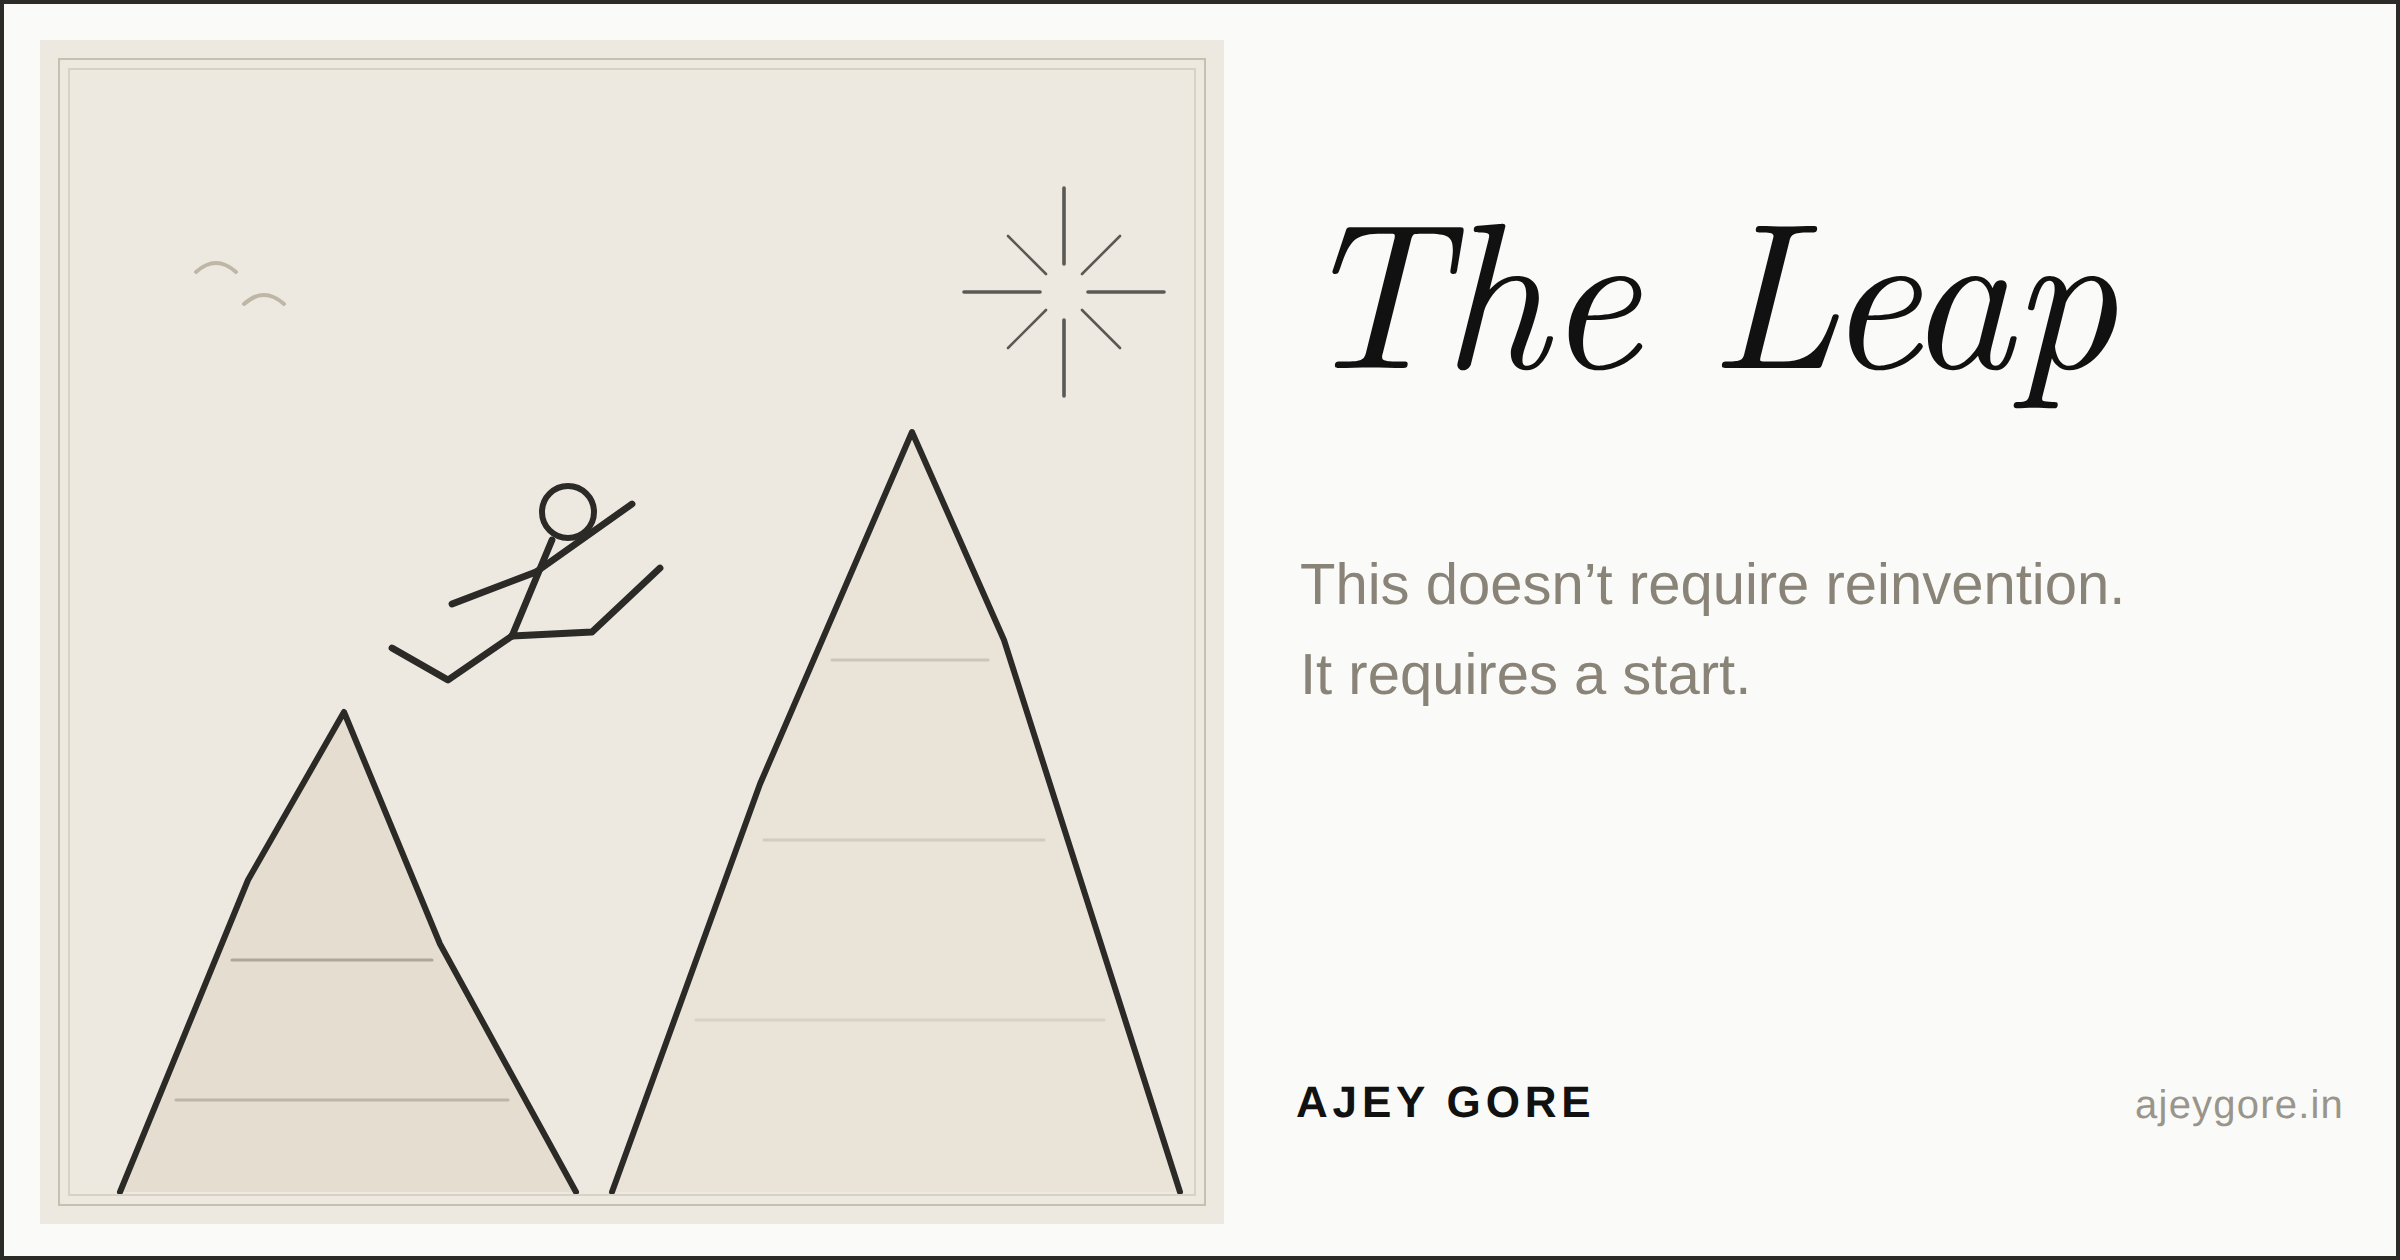
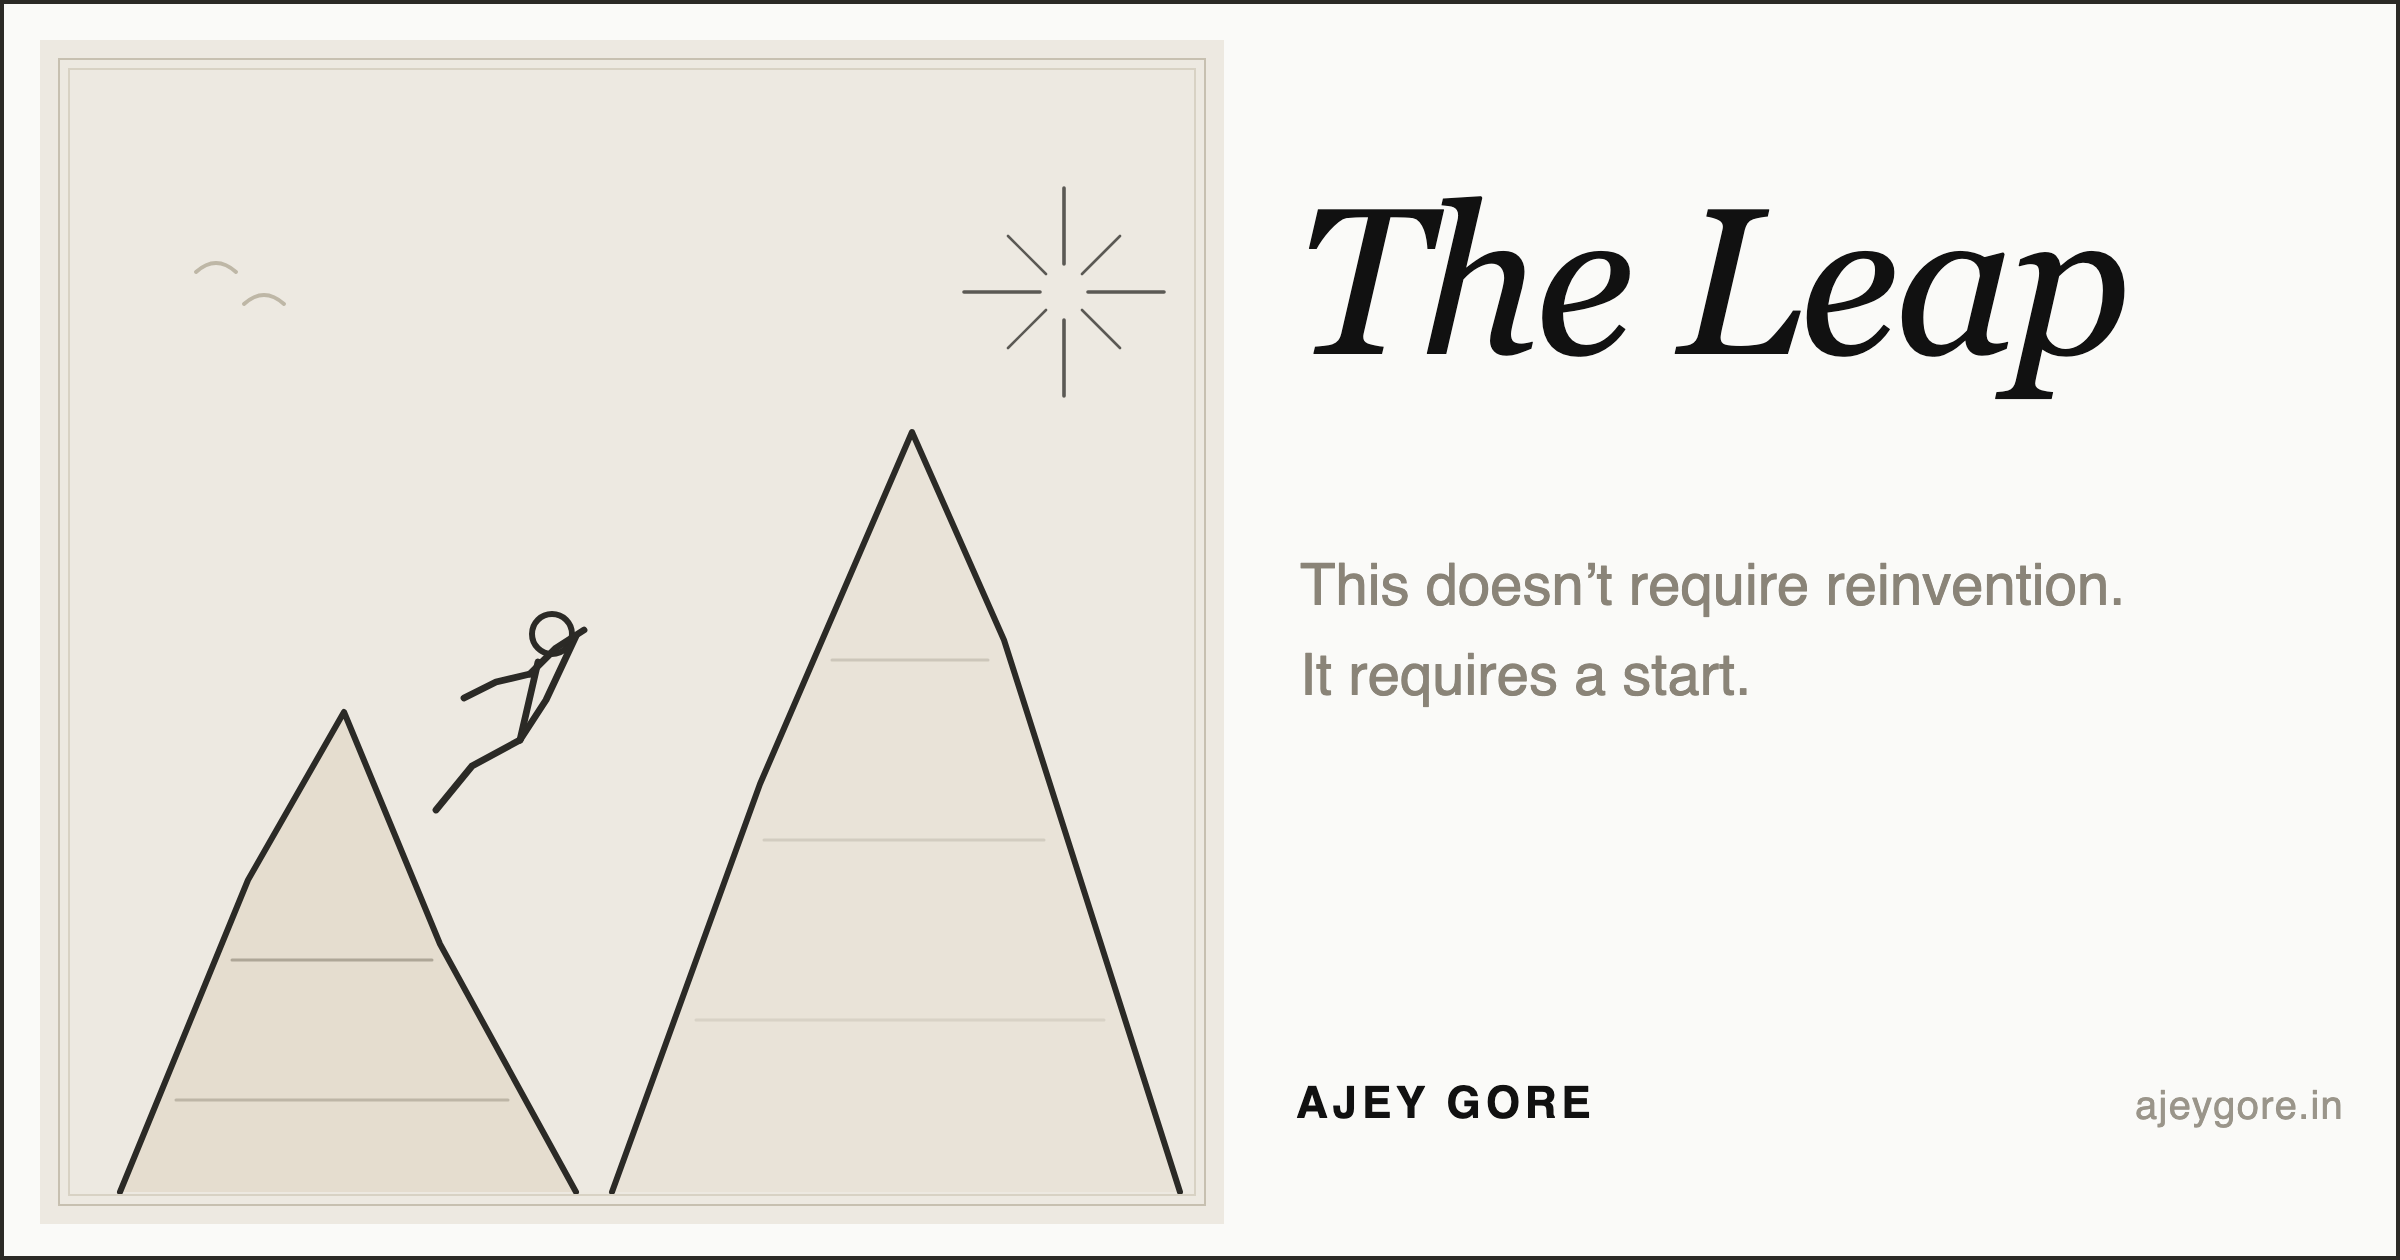
The Leap: give the leap figure a dynamic bounding pose
Launching off the near peak mid-stride instead of a static jump, to read more like an actual leap.

diff --git a/_data/og_cards/the-leap.html b/_data/og_cards/the-leap.html
@@ -65,12 +65,12 @@
 
           <!-- the leap -->
           <g stroke="#2B2A26" stroke-width="3.4">
-            <circle cx="264" cy="236" r="13" stroke-width="3"/>
-            <path d="M256 250 L236 298"/>
-            <path d="M236 298 L204 320 L176 304"/>
-            <path d="M236 298 L276 296 L310 264"/>
-            <path d="M248 266 L296 232"/>
-            <path d="M248 266 L206 282"/>
+            <circle cx="256" cy="297" r="10" stroke-width="3"/>
+            <path d="M240 350 L249 311"/>
+            <path d="M240 350 L216 363 L198 385"/>
+            <path d="M240 350 L253 330 L268 298"/>
+            <path d="M245 317 L228 321 L212 329"/>
+            <path d="M245 317 L258 304 L272 295"/>
           </g>
 
         </g>
